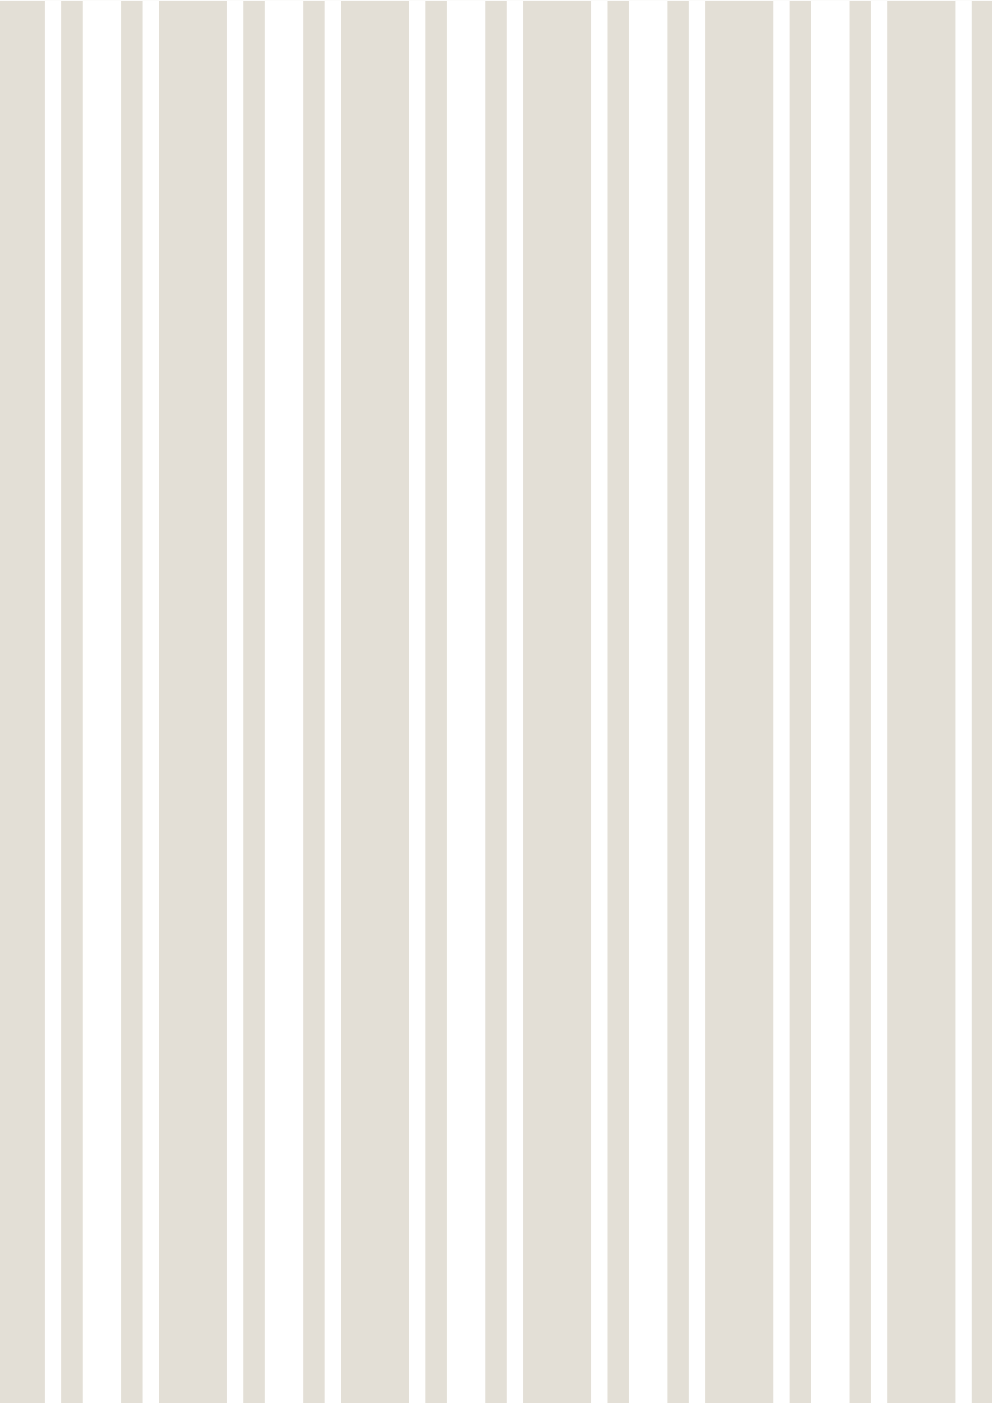
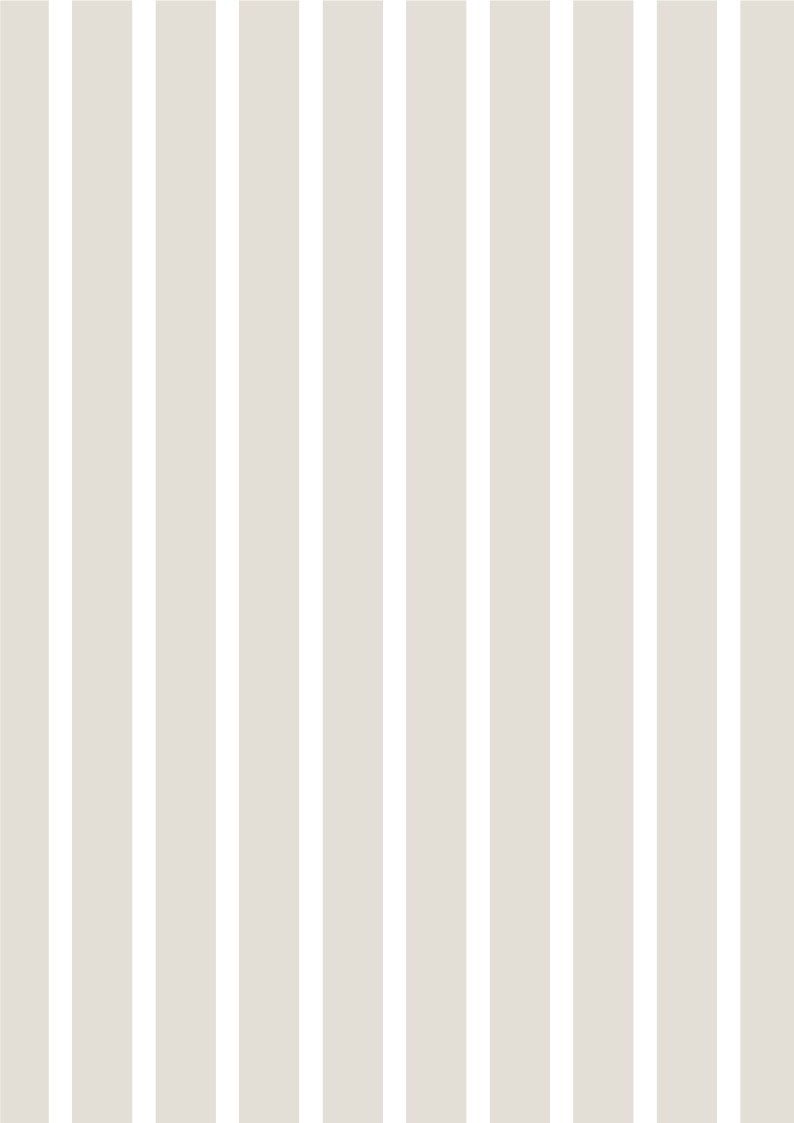
changes

diff --git a/src/index.css b/src/index.css
@@ -48,7 +48,7 @@
 .entry{
     height: 100%;
     width: 100%;
-    background-image: url('/fond-m8-droit.png');
+    background-image: url('/fond-m8-entry.png');
     background-repeat: repeat-y;
     background-position: center;
     background-size: cover;
@@ -139,16 +139,15 @@
     font-weight: bold;
 }
 
-.entry-boucle{
+.boucle{
     height: 20px;
     width: 170px;
 }
 
 
-
 /* Home */
 
-.home{
+.home {
     height: fit-content;
     width: 100%;
     display: flex;
@@ -156,28 +155,10 @@
     justify-content: center;
     align-items: center;
     position: relative;
-    background-image: url('/fond-m5.png');
-    background-repeat: repeat-y;
     overflow: hidden;
-    padding-bottom: 50px;
+    background-image: url("/fond-m8-droit.png");
+    background-size: 100vw ;
 }
-
-.fleur-bas{
-    height: 100px;
-    width: 180px;
-    transform: rotate(-50deg);
-    position: absolute;
-    bottom: 35px;
-    right: 0;
-}
-
-.noms-bas{
-    height: fit-content;
-    position: absolute;
-    bottom: 2px;
-    font-family: 'Farmhand', serif;
-}
-
 /* Musique */
 
 .musique button{
@@ -194,87 +175,57 @@
 
 /* Card */
 
-.card{
+.card-1, .card-2{
     height: fit-content;
-    border: none;
+    width: 94%;
+    border: double 7px #6D6349;
     display: flex;
     flex-direction: column;
+    justify-content: space-around;
     align-items: center;
+    margin: 30px auto;
+    padding: 30px 0;
 }
 
-.fleurs-title{
-    height: fit-content;
-    width: 100vw;
-    display: flex;
-    flex-direction: column;
+.card-2{
+    background-image: url('/fond-m8-cote.png');
+    background-size: 100vw;
 }
 
-.fleur-title-gauche, .fleur-title-droite{
-    height: 100px;
-    width: 200px;
-}
-
-.fleur-title-droite{
-    align-self: flex-end;
-    transform: translateY(30px);
-}
-
-.fleur-title-gauche{
-    align-self: start;
-    transform: translateY(-30px);
-}
-
-.fleurs-title .title{
-    align-self: center;
-    font-family: "Italianno", serif;
-    letter-spacing: 2px;
-}
-
-.noms{
-    display: flex;
-    flex-direction: row;
-    align-items: center;
-    gap: 20px;
-}
-
-.nom-1, .nom-2, .and{
-    width: 100%;
-    height: fit-content;
-    font-family: 'Farmhand', serif;
-    font-size: 70px;
+.title{
+    font-family: "Gilda Display", serif;
     text-align: center;
-    color: #292B2D;
-    font-weight: 100;
+    font-size: 35px;
+    color: #6D6349;
+    margin-top: 20px;
+    height: fit-content;
+}
+
+.noms, .and{
+    font-family: "Gilda Display", serif;
+    font-size: 65px;
+    color:#6D6349;
+    margin-top: 40px;
 }
 
 .and{
-    font-family: "Alice", serif;
-    font-size: 40px;
+    font-size: 30px;
 }
-
 
 .text{
     margin: 40px auto auto auto;
-    font-family: "Alice", serif;
-    color: #292B2D;
+    font-family: 'Hatton';
+    color: #6D6349;
     height: fit-content;
     width: 80%;
     text-align: center;
 }
 
-.oui{
-    margin: 10px auto auto auto;
-    font-family: "Alice", serif;
-    font-size: 30px;
-    color: #292B2D;
-    height: fit-content;
-}
-
 .date{
     height: fit-content;
     margin: 40px auto auto auto;
-    font-family: "Alice", serif;
-    color: #292B2D;
+    font-family: 'Hatton';
+    color: #6D6349;
     font-size: 20px;
     text-align: center;
 }
@@ -282,8 +233,8 @@
 .endroit{
     height: fit-content;
     margin: 40px auto auto auto;
-    font-family: "Alice", serif;
-    color: #292B2D;
+    font-family: 'Hatton';
+    color: #6D6349;
     text-align: center;
     width: 80%;
 }
@@ -293,8 +244,8 @@
     width: 60%;
     text-align: center;
     margin: 40px auto auto auto;
-    font-family: "Alice", serif;
-    color: #292B2D;
+    font-family: 'Hatton';
+    color: #6D6349;
 }
 
 .waze{
@@ -308,8 +259,8 @@
 }
 
 .waze .waze-link{
-    color: #292B2D;
-    font-family: "Alice", serif;
+    font-family: 'Hatton';
+    color: #6D6349;
     font-style: italic;
 }
 
@@ -322,8 +273,8 @@
 }
 
 .save-the-date .save-the-date-link{
-    color: #292B2D;
-    font-family: "Alice", serif;
+    font-family: 'Hatton';
+    color: #6D6349;
     font-style: italic;
 }
 
@@ -341,41 +292,37 @@
     flex-direction: row;
     justify-content: space-around;
     margin: 15px auto 10px auto;
+    font-family: 'Hatton';
+    color: #6D6349;
 }
 
-.parents-fille{
-    font-family: "Alice", serif;
-    font-size: small;
-}
-
-.parents-garcon{
-    font-family: "Alice", serif;
+.parents-garcon, .parents-fille{
     font-size: small;
 }
 
 
 .houppa-text1{
     width: 80%;
-    font-family: "Alice", serif;
     text-align: center;
-    color: #271A11;
+    font-family: 'Hatton';
+    color: #6D6349;
     margin: 40px auto;
 }
 
 .houppa-text2{
     width: 80%;
-    font-family: "Alice", serif;
+    font-family: 'Hatton';
+    color: #6D6349;
     text-align: center;
-    color: #271A11;
     margin: 40px auto 0 auto;
 }
 
 
 .pensee{
     margin: 40px auto auto auto;
-    font-family: "Alice", serif;
     text-align: center;
-    color: #271A11;
+    font-family: 'Hatton';
+    color: #6D6349;
     font-style: italic;
     text-align: center;
     width: 80%;

diff --git a/src/Pages/Houppa.jsx b/src/Pages/Houppa.jsx
@@ -9,13 +9,10 @@ function Houppa(){
 
     return(
             <>
-            <div className="card">
-            <div className="fleurs-title">
-                    <img src="fleur-m5-droite.png" className='fleur-title-droite' />
-                    <h1 className='title'>La Houppa</h1>
-                    <img src="fleur-m5-gauche.png" className='fleur-title-gauche' />
-                </div>
-                <img src="kol-sasson-gris.png" className='kol-sasson' />
+            <div className="card-2">
+                <img src="kol-sasson-m8.png" className='kol-sasson' />
+                <p className="title">La Houppa</p>
+                <img src="boucle-m8.png" className='boucle' />
                 <div className="parents">
                     <div className="parents-fille">
                         <p>Mr et Mme John Doe</p>
@@ -27,15 +24,11 @@ function Houppa(){
                     </div>
                 </div>
                 <p className='houppa-text1'>Ont la joie de vous faire part du mariage de leurs petits enfants et enfants</p>
-                <div className="noms">
-                    <h1 className='nom-1'>YAEL</h1>
-                    <h1 className='and'>&</h1>
-                    <h1 className='nom-2'>LEVY</h1>
-                </div>
+                <p className='noms'>Léa <span className='and'>&</span> Shay</p>
                 <p className='houppa-text2'>et vous prient de bien vouloir assister a la houppa ainsi qu’a la soiree  qui aura lieu le</p>
-                <p className='date'>Lundi 3 juin 2024 <br />כו’באייר תשפה <br />A partir de 18h00   </p>
+                <p className='date'>Mercredi 14 février 2025 <br />כו’באייר תשפה <br />A 19h00 precise</p>
                 <p className='endroit'>A la salle Emeralde Garden <br /> Park Taassit Shourak, Beth Shemesh </p>
-                <p className="pensee">"Une tendre pensée pour nos grands parents toujours presents dans nos coeurs"</p>
+                <p className="pensee">"“Une douce pensée pour nos proches dans nos cœurs”"</p>
                 <Waze name={'waze'} lat={48.8525} long={2.3372} iconWidth='18px' iconHeight='25px' iconColor='#292B2D' />
                 <SaveTheDate name={'save-the-date'} date={[2024, 6, 3, 12, 0]} iconColor='#292B2D' iconHeight='18px' iconWidth='21px'/>
             </div>

diff --git a/src/Pages/Mairie.jsx b/src/Pages/Mairie.jsx
@@ -8,23 +8,16 @@ function Mairie(){
     const { language } = useContext(Context)
 
     return(
-            <div className="card">
-                <div className="fleurs-title">
-                    <img src="fleur-m5-droite.png" className='fleur-title-droite' />
-                    <h1 className='title'>La Mairie</h1>
-                    <img src="fleur-m5-gauche.png" className='fleur-title-gauche' />
-                </div>
-                    <div className="noms">
-                        <h1 className='nom-1'>YAEL</h1>
-                        <h1 className='and'>&</h1>
-                        <h1 className='nom-2'>LEVY</h1>
-                    </div>
-                    <p className='text'>Se diront "oui" le</p>
-                    <p className='date'><strong> Dimanche 3 juin 2024 <br /> à 12h00</strong></p>
-                    <p className='endroit'>A la mairie de Saint Brice sous foret <br />95350</p>
-                    <p className='suite'>A issue de la cérémonie, un vin d'honneur seras servi sur place </p>
-                    <Waze name={'waze'} lat={48.8525} long={2.3372} iconWidth='18px' iconHeight='25px' iconColor='#292B2D' />
-                    <SaveTheDate name={'save-the-date'} date={[2024, 6, 3, 12, 0]} iconColor='#292B2D' iconHeight='18px' iconWidth='21px'/>
+            <div className="card-1">
+                <p className='title'>La Mairie</p>
+                <img src="boucle-m8.png" className='boucle' />
+                   <p className='noms'>Léa <span className='and'>&</span> Shay</p>
+                    <p className='text'>Ont l'honneur de vous convier à leur cérémonie civile qui aura lieu le</p>
+                    <p className='date'><strong> Lundi 12 février 2025 <br /> à 12h00</strong></p>
+                    <p className='endroit'>A la mairie de Montmagny<br />95360</p>
+                    <p className='suite'>Un vin d'honneur suivra la céremonie</p>
+                    <Waze name={'waze'} lat={48.8525} long={2.3372} iconWidth='18px' iconHeight='25px' iconColor='#6D6349' />
+                    <SaveTheDate name={'save-the-date'} date={[2024, 6, 3, 12, 0]} iconColor='#6D6349' iconHeight='18px' iconWidth='21px'/>
             </div>
     )
 }

diff --git a/src/Pages/Chabat.jsx b/src/Pages/Chabat.jsx
@@ -8,19 +8,12 @@ function Chabat(){
     const { language } = useContext(Context)
 
     return(
-           <div className="card">
-                <div className="fleurs-title">
-                    <img src="fleur-m5-droite.png" className='fleur-title-droite' />
-                    <h1 className='title'>Le Chabat</h1>
-                    <img src="fleur-m5-gauche.png" className='fleur-title-gauche' />
-                </div>
-                <div className="noms">
-                    <h1 className='nom-1'>YAEL</h1>
-                    <h1 className='and'>&</h1>
-                    <h1 className='nom-2'>LEVY</h1>
-                </div>
-                <p className='text'>Seront ravis de partager leur chabat hatan avec vous </p>
-                <p className='date'>Le vendredi 8 <br /> et samedi 9 juin 2024</p>
+           <div className="card-1">
+                <p className='title'>Le Chabat</p>
+                <img src="boucle-m8.png" className='boucle' />
+                <p className='noms'>Léa & Shay</p>
+                <p className='text'>Ont l’honeur de vous convier à leur Chabat hatan qui aura lieu</p>
+                <p className='date'>Vendredi 16<br />et samedi 17 février 2025</p>
                 <p className='endroit'>A la synagogue Shaare Elyahou <br /> 13 guideon haozner<br />Jérusalem</p>
                 <Waze name={'waze'} lat={48.8525} long={2.3372} iconWidth='18px' iconHeight='25px' iconColor='#292B2D' />
                 <SaveTheDate name={'save-the-date'} date={[2024, 6, 3, 12, 0]} iconColor='#292B2D' iconHeight='18px' iconWidth='21px'/>

diff --git a/src/Pages/Home.jsx b/src/Pages/Home.jsx
@@ -4,7 +4,6 @@ import Musique from '../Components/Musique'
 import Mairie from './Mairie'
 import Henne from './Henne'
 import Houppa from './Houppa'
-import BeachParty from './BeachParty';
 import Chabat from './Chabat';
 import Response from './Response';
 
@@ -18,12 +17,9 @@ function Home(){
             <p className='bsd'>בס"ד</p>
             <Musique />
             <Mairie />
-            <Henne />
             <Houppa />
             <Chabat />
             <Response />
-            <img src="fleur-m5-droite.png" className='fleur-bas' />
-            <p className='noms-bas'>YAEL <span className='and-bas'>&</span> LEVY</p>
         </div>
 
     )

diff --git a/src/Pages/Entry.jsx b/src/Pages/Entry.jsx
@@ -19,7 +19,7 @@ function Entry(){
                 <CountDown />
                 <div className="entry-link">
                     <Link to='/home' className='invit-link'>Voir l'invitation</Link>
-                    <img src="boucle-m8.png" className='entry-boucle' />
+                    <img src="boucle-m8.png" className='boucle' />
                 </div>
             </div>
         </div>
